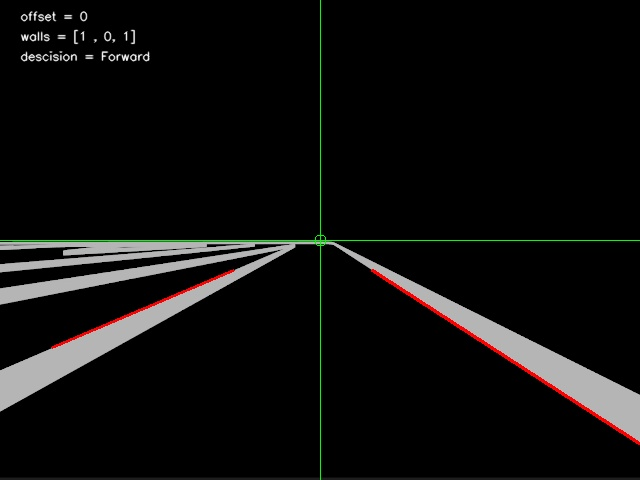
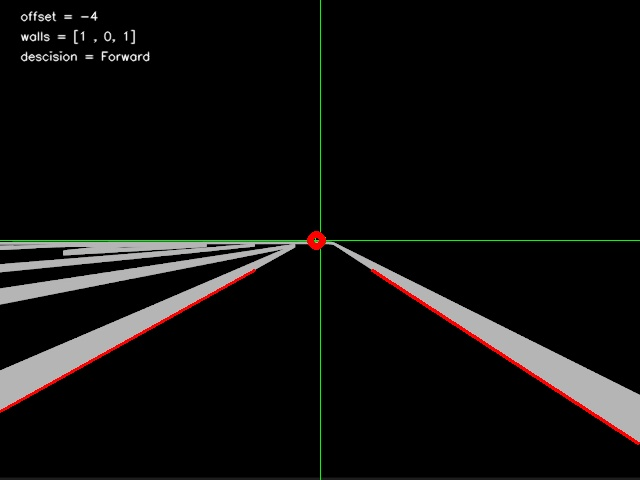
helloo

diff --git a/EEE2Rover-master/src/videocv.py b/EEE2Rover-master/src/videocv.py
@@ -7,7 +7,7 @@ video = cv2.VideoCapture("maze_view.mp4")
         
 kernel = np.ones((5,5),np.uint8)    
    
-vertices= np.array([[0,450],[0,270],[640,270],[640,450],
+vertices= np.array([[0,480],[0,270],[640,270],[640,480],
                          ], np.int32)  
 forward_mask= np.array([[200,350],[200,270],[440,270],[440,350],
                          ], np.int32)  
@@ -179,9 +179,8 @@ class HoughBundler:
             
             for line_i in [l[0] for l in lines]:
                 orientation = self.get_orientation(line_i)
-                print(orientation)
                 # if vertical
-                if 20 < orientation <= 90:
+                if 25 < orientation <= 90:
                     lines_vertical.append(line_i)
                 else:
                     lines_horizontal.append(line_i)
@@ -243,9 +242,9 @@ def draw_lines(lines,frame):
      if lines is not None:
        # lines = bundler.process_lines(lines)
         for line in lines:
-            
-            x1, y1, x2, y2 = line
-            cv2.line(frame, (x1, y1), (x2, y2), (0, 0, 255), 2)
+            if line is not None:
+                x1, y1, x2, y2 = line
+                cv2.line(frame, (x1, y1), (x2, y2), (0, 0, 255), 2)
 def descision(walls):
     if walls==[1,1,0]:
        return "Right"
@@ -283,7 +282,13 @@ def closest_to_center(lines):
             if abs(320-(x1+x2)/2) <abs(320-(x1c+x2c)/2) :
                 closest_line=line
     return [closest_line]
+def GetVanishingPoint(Lines):
+   #find the midpoint of the lines
 
+   x1, y1, x2, y2 = Lines[0]
+   x1c, y1c, x2c, y2c = Lines[1]
+   x=(x1+x2+x1c+x2c)/4
+   return [int(x),240]
 while True:
     
     ret, frame = video.read()
@@ -302,20 +307,31 @@ while True:
     walls=[0,0,0]
     frame=draw_grid(frame,(2,2))
     cv2.circle(frame, (320,240), 6, (0,255,0), 1)
+    line_buffer=[None,None,None]
     for i in range(0,len(masks)):
         mask=masks[i]
-        lines = cv2.HoughLinesP(roi(edges,[mask]),2, np.pi/180, threshold=150, minLineLength=20 , maxLineGap=5)
-        bundler = HoughBundler(min_distance=10,min_angle=5)
+        lines = cv2.HoughLinesP(roi(edges,[mask]),1, np.pi/180, threshold=150, minLineLength=50 , maxLineGap=5)
+
+        bundler = HoughBundler(min_distance=10,min_angle=2)
         lines = bundler.process_lines(lines,(i!=1))
        
         if lines !=[]:
             walls[i]=1
             lines=closest_to_center(lines)
+            line_buffer[i]=lines[0]
         else:
             walls[i]=0
+            if(i==0):
+                lines=[[0,480,0,0]]
+                line_buffer[i]=[0,480,0,0]
+            elif(i==2):
+                lines=[[640,480,640,0]]
+                line_buffer[i]=[640,480,640,0]
         draw_lines(lines,frame)
-    
-    __draw_label(frame, 'offset = %d' % -0.1, (20,20), (255,255,255))
+    offset=(GetVanishingPoint([line_buffer[0],line_buffer[2]]))
+    #print(offset)
+    cv2.circle(frame, tuple(offset), 6, (0,0,255), 5)
+    __draw_label(frame, 'offset = %d' % (offset[0]-320), (20,20), (255,255,255))
     __draw_label(frame, 'walls = [%d , %d, %d]' % tuple(walls), (20,40), (255,255,255))
     __draw_label(frame, 'descision = %s' % descision(walls), (20,60), (255,255,255))
     
